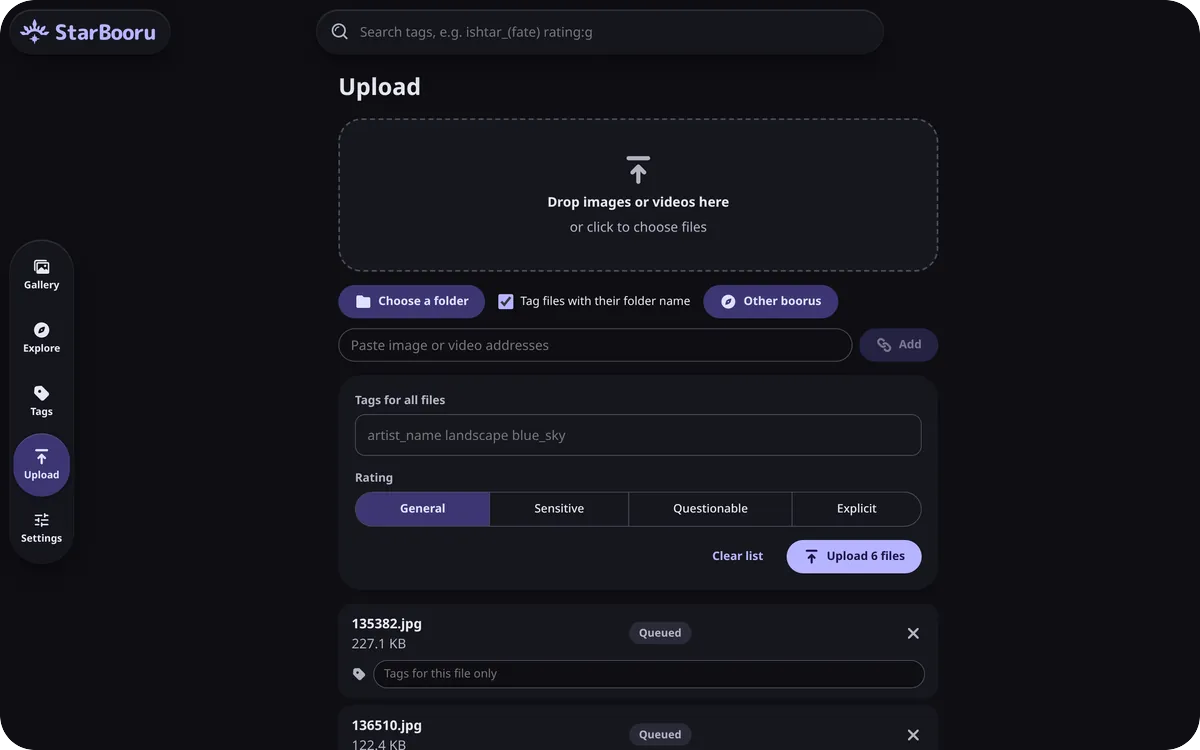
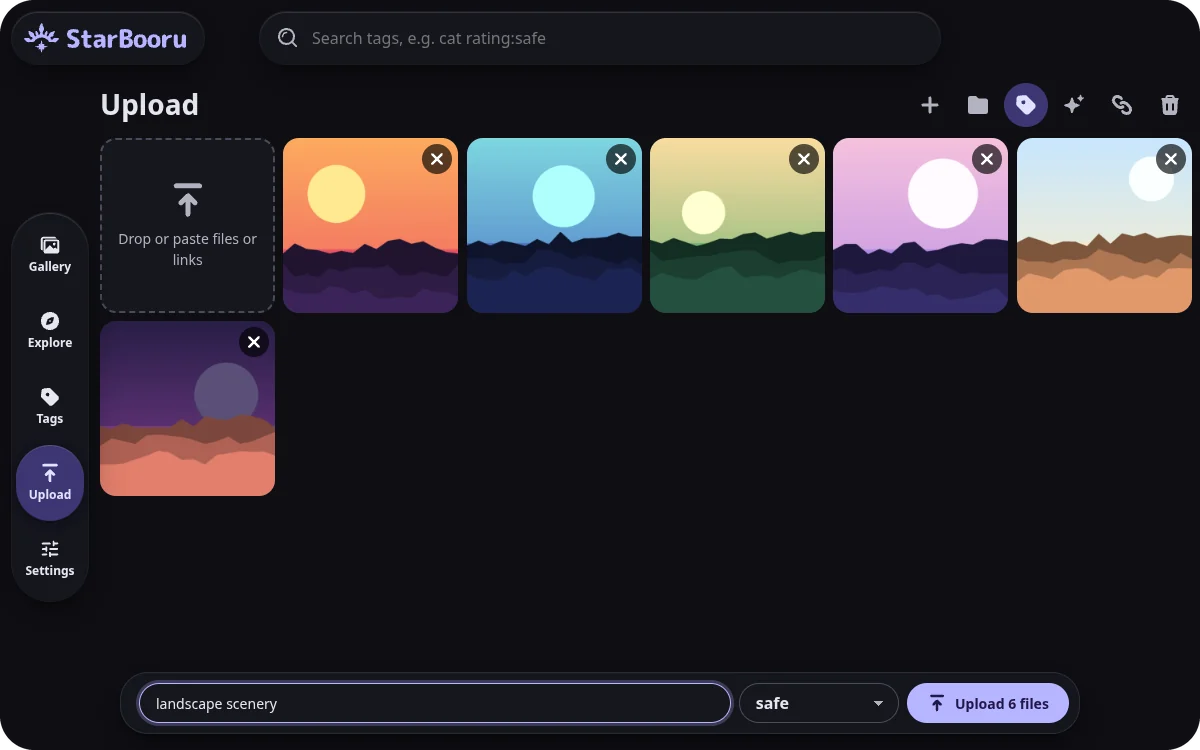
docs: The Upload page's veil, paste, popup and AI toggle, and a new showcase shot of it

diff --git a/docs/architecture.md b/docs/architecture.md
@@ -41,7 +41,7 @@ The desktop and Android apps are the same Dioxus code as the web app. Each one a
 | `storage.rs` | Format sniffing, content-addressed storage, thumbnails |
 | `uploads.rs` | Chunked uploads under way, in memory: each is a file of its final size in the scratch directory that chunks are written into at their place, with a flag per chunk. A read-write lock per upload keeps a chunk from changing a file while it is hashed, and serialises repeated finishes. Up to 8 per account, dropped after an hour idle. `routes/uploads.rs` has the handlers; finishing goes through `Storage::ingest_file`, which moves a video into place without reading it into memory, then the same `record_post` as `POST /posts`. A restart clears the scratch directory and with it any upload under way, which clients hear as `upload_gone`. |
 | `similar.rs` | A picture's colours for `color:`, and the duplicate finder fingerprints: a 64-bit difference hash (9×8 brightness grid) plus the average colour, and grouping by Hamming distance through a 4×16-bit multi-index, so it never compares every pair. Fine high-frequency patterns blur to flat at 9×8 and can match when their colours do. |
-| `ai.rs` | AI provider client: `chat(provider, prompt, image)` posts to an OpenAI-compatible `/chat/completions` (no proxies, 5 min timeout, 1 MiB answer cap, any address since the admin sets it). `AiSetup` routes each tool (tagging, translation, comics) to its API, the local models or nowhere. Tag suggestions from a post's thumbnail, translation of a post's OCR text (text only; `routes/ai.rs`), and background auto-tagging of uploads (two at a time). The key is never logged or returned; the answer parser is `starbooru_core::ai`. |
+| `ai.rs` | AI provider client: `chat(provider, prompt, image)` posts to an OpenAI-compatible `/chat/completions` (no proxies, 5 min timeout, 1 MiB answer cap, any address since the admin sets it). `AiSetup` routes each tool (tagging, translation, comics) to its API, the local models or nowhere. Tag suggestions from a post's thumbnail, translation of a post's OCR text (text only; `routes/ai.rs`), and background auto-tagging of uploads (two at a time), when the uploader asks for it (`autotag` on the upload or import) or, if they don't say, when the administrator's setting does. The key is never logged or returned; the answer parser is `starbooru_core::ai`. |
 | `local_ai/` | Local AI: `hardware.rs` reads the machine (`/proc`, `/sys/class/drm`, `nvidia-smi`, cgroup limits), `worker.rs` runs the worker process, `install.rs` downloads and verifies model files, `mod.rs` keeps it all working (see *Local AI*). |
 | `fetch.rs` | URL import download: http(s) only, public addresses only (checked for literal IPs, on every redirect and in a filtering DNS resolver), no proxies, streaming size cap, timeouts. `get_from` names the site a file belongs to in `Referer` (the site only, never a whole address), as Gelbooru's file servers answer nothing else. |
 | `routes/imports.rs` | Background URL imports: `import_jobs` rows claimed oldest first with `FOR UPDATE SKIP LOCKED` by two worker tasks, woken by a `Notify` when a batch is queued (or every minute), each run through the same path as `POST /posts/import`. At startup rows left `running` go back to `queued`; finished rows are deleted after 7 days. While a job downloads, `transfers.rs` keeps how far it has got in memory, by job (`Fetcher::get_from` reports each piece; `starbooru_core::Meter` turns the totals into a speed, a reading every half second, each counting for a third), and `GET /imports` puts it on the running jobs. An import that meets a busy site goes back to `queued` with `not_before` set (the site's `Retry-After`, or 15 s doubling each time, 10 minutes at most) and fails after six such waits; an idle worker sleeps until the first one is due. |
@@ -207,7 +207,8 @@ Packaging: the default build loads Microsoft's `libonnxruntime.so` from next to 
 | `locales/*.ftl` | One Fluent catalogue per language, compiled in with `include_str!`. `en.ftl` is the reference. |
 | `oidc.rs` | Provider sign-in. Web: the page goes to the provider and comes back to the `/oidc` route, with the handle kept in `sessionStorage`. Desktop and Android: the system browser opens the provider (`webbrowser`), and a one-off listener on `127.0.0.1` receives the result. |
 | `util.rs` (`media_files`) | Sorts what was chosen or dropped before it reaches the queue. A known extension passes unread; any other file that isn't hidden is judged by its first bytes (`SNIFF_BYTES`), read without loading the rest, against the server's own table (`starbooru_core::FORMATS`, `is_media`). Saved pictures are often named just `anime`. The file picker has no `accept` except on Android, where it opens the gallery: elsewhere it hides files with no extension, and the desktop's dialog also hides most types with no way to show them. |
-| `activity.rs` | Work that outlives a page, in global signals at the app's root. The upload queue holds files and addresses until *Upload*; then files go to a runner spawned on the root scope (one at a time, so leaving the page doesn't stop it, though closing the app does; the web app asks before closing with uploads left), each read a piece at a time and sent by `Client::upload_file` (`crates/client/src/chunked.rs`), which adjusts how many chunks are in flight and sends failed ones again, and addresses go to the server as `POST /imports` jobs. A poller (mounted by the shell) keeps the job list current: every 2 s while jobs run, else every minute. The Upload item in the navigation shows how many uploads and imports are still going, and a notice sums them up when they finish. An upload reports the bytes the server has taken after each chunk (`upload_file`'s `sent`), which the queue keeps with a speed from the same `Meter`; the job list is asked for every second while a download runs, and `TransferBar` (`pages/mod.rs`) draws either as a bar with its percentage and speed, or the bytes so far when the site doesn't say the size. |
+| `activity.rs` | Work that outlives a page, in global signals at the app's root. The upload queue holds files and addresses until *Upload*; then files go to a runner spawned on the root scope (one at a time, so leaving the page doesn't stop it, though closing the app does; the web app asks before closing with uploads left), each read a piece at a time and sent by `Client::upload_file` (`crates/client/src/chunked.rs`), which adjusts how many chunks are in flight and sends failed ones again, and addresses go to the server as `POST /imports` jobs. A poller (mounted by the shell) keeps the job list current: every 2 s while jobs run, else every minute. The Upload item in the navigation shows how many uploads and imports are still going, and a notice sums them up when they finish. An upload reports the bytes the server has taken after each chunk (`upload_file`'s `sent`), which the queue keeps with a speed from the same `Meter`; the job list is asked for every second while a download runs, and `TransferBar` (`pages/mod.rs`) draws either as a bar with its percentage and speed, or the bytes so far when the site doesn't say the size. The first item added once nothing is waiting starts a new batch and clears the last one's finished items. Opening an address asks the server once which booru post it is (`POST /remote/post`); a post found brings its tags, and is then imported as its file with its page as the source, so the server doesn't look it up again and tags taken off stay off. |
+| `paste.rs` | Ctrl+V on the Upload page. A script on the window catches pastes outside fields and popups. In the browser the clipboard's files are handed over as they are. A webview's have no path, so their bytes come across as base64 (64 MB at most each) and wait in a folder of the app's cache until uploaded, cleared after a day; files copied in a file manager arrive as `file://` lines and are read where they are. |
 | `cache.rs` | Desktop and Android media cache. Thumbnails and the viewer's images load from `/sbcache/<variant>/<sha256>.<ext>?<signature>`, which a webview asset handler answers from `<cache dir>/media/` (on Android, the app's cache dir), or downloads from the signed-in server's `/media/…` (no token; 64 MiB at most), keeps and answers. Files are content-addressed, so they never go stale, though signed URLs change every 6 hours. The exception is a thumbnail the server has made again at a new size: when `THUMBS` changes, the cached thumbnails go once, on the next start. Least recently used files go once the cache is over its limit (Settings › Storage on this device, 512 MB by default, off to 5 GB). The web app uses the browser cache. Key parsing and eviction are unit tested. |
 | `back.rs` | The Android back key. The activity (`vendor/wry`) calls `window.__sbBack()`, which closes what's on top of the page (menu, sheet, zoom, fullscreen) or goes back through the router. If it has no use for the key, the key closes the app. The router's history isn't the WebView's, so `history.pushState` can't do this: Chromium skips entries added without a tap. |
 | `download.rs` | *Download* buttons. The desktop app streams the signed URL into the Downloads folder (`Client::download_to`, through a `.part` file), never overwriting (`name (2).ext`), and reports the path in the shell's snackbar (`pages::notify`). The web app and Android use an `<a download>` link. File-name cleaning and the free-name rule are unit tested. |
@@ -215,6 +216,6 @@ Packaging: the default build loads Microsoft's `libonnxruntime.so` from next to 
 | `pace.rs` | Effects the device can afford. While Settings › Appearance › *Effects* is Automatic, a script times the frames of each stretch of scrolling and then eight frames of the page at rest, which say how fast the screen is at that moment. A stretch that lost more than a quarter of its frames is rough; three rough ones, less the smooth ones in between, set `Prefs.effects_reduced`, and timing stops. The root element then carries `data-effects="lite"`: the glass gets its tone without the blur, new thumbnails appear without an entrance and the viewer's glow isn't drawn. *Full* and *Reduced* skip the measuring, and choosing any of the three clears what was measured. The verdict and the rule that combines it with the setting are unit tested. |
 | `system.rs` | What the device says about itself. On Android, through JNI (`robius-android-env`): the app's files and cache dirs, which `directories` can't find there, and on Android 12+ the wallpaper's accent (`system_accent1_500`). It is read at start and whenever the app comes back to the front, then turned into an OKLCH hue that seeds the palette while *Accent colour › Wallpaper* is chosen (the default). The hue conversion and the choice are unit tested. On Linux desktop it also decides whether Dioxus's XWayland and no-DMA-BUF fallback is needed: only for NVIDIA's driver (`development.md` › *Run the clients*). |
 | `store.rs` | The session (server URL, token, user) and preferences (theme, accent hue, language, hand, battery saver, effects, originals, media cache limit) in global signals. They persist to `localStorage` on the web, to `<config dir>/StarBooru/state.json` on desktop and to the app's private files dir on Android. It also keeps the server's answers to `GET /info` and `GET /ai` for two minutes (`server_info`, `ai_status`), which the viewer and the upload page used to ask for on every visit; leaving the administration pages drops them. The app's root element carries `data-theme`, `data-hand` and `data-saver` for the CSS. |
-| `pages/` | `shell` (floating capsules, with nothing fixed edge to edge: the brand, the search with tag autocomplete, which asks once typing pauses for 120 ms and keeps the last 48 answers for a minute, always centred on the window, and the navigation, a slider of equal cells whose thumb moves without JS (`--n`, `--i`). It has five items at most (`docs/design-ui-ux`) and sits at the top right from 1530 px, at the side down to 761 px (icons alone when the window is under 500 px tall) and at the bottom on phones. A page with no item of its own is under one of the five: the booru browser is the other side of Explore, the two sides are links at the head of both pages (`explore::Sides`), and the Explore item goes back to the side last open. On the booru browser's pages the search box searches the chosen sites instead and completes from the first one's tags (`POST /remote/tags`, after a pause of 250 ms, with an answer cache of its own); a snackbar for notices that arrive after the click), `search_demo` (at the top of the gallery, the empty search box types out the cheat sheet with `ishtar_(fate)`, from a script that writes to the page directly; off under reduced motion and the battery saver), `login`, `gallery` (infinite scroll; `layout.rs` places the tiles as lengths of tiles and gaps, which CSS turns into pixels: staggered portrait stacks them in columns, staggered landscape fills rows, each row to its own height, and staggered everything packs them on half-column cells, levelling tiles by cropping them a little so neither rows nor columns line up; only those within a screen and a half of the screen are on the page, so pictures load and unload as they get near or leave and a removed picture's download is cancelled; the part on the page moves about a row at a time, and a tile already there isn't rendered again, as its post is shared with the list (`Rc`) and its handler is kept between renders; a tile shows its picture's main colour until the thumbnail has loaded; of a new page of results only the tiles that can be on the screen make an entrance; while the page scrolls, `html` carries `sb-scrolling` and the tile under the pointer isn't lit, and only video tiles listen for the pointer; it remembers the list and the spot per search, and going back to a spot loads the list's details as far as the user had got and works out the tile's place from the layout), `post` (viewer with zoom, pan, previous/next and fullscreen; votes, edit, delete/restore; the stage's size comes from the window alone, so nothing on or below it moves with the picture, and the picture's own thumbnail, painted blurred onto a canvas once, is the glow behind the page and all there is around it in fullscreen, the two canvases taking turns to fade so that the page never blurs anything per frame and a new glow waits for its picture to decode and for the last fade to end; the bar of actions and the related posts sit under the stage, the tags and details beside it; the related posts are asked for at once but go onto the page only when the viewer has come to rest (`motion::rested`: the flight or the turn is over, the file has loaded, the glow has changed and the page has stopped scrolling), as tiles in their pictures' colours, and their pictures then come two at a time, each decoded before it is painted; it fetches the neighbouring posts ahead, whose pictures also wait for that rest and decode one after another, sizes the picture from the post's width and height and shows the thumbnail until the image loads; the gallery hands over the clicked post, and `motion.rs` flies a copy of the picture between tile and stage, under the bars and the viewer's controls and panels, and for the browser's forward button as for a click, aiming anew each frame as the page may still move under it and leaving only once the image has decoded, while a copy of the gallery, of the tiles on the screen only, fades out as the controls and panels fade in, as WebKitGTK crashes in view transitions; on previous/next `motion.rs` copies the old picture before the post changes and starts both pictures together once the new one has decoded, 300 ms at most, and the neighbours are decoded ahead and kept; presses of previous/next add up in a queue of at most 6 steps, one taken each time the neighbours are known, so none is lost whatever the network does; while flipping through, one request for a post runs at a time, a picture has no entrance and shows only its thumbnail, and the file, the related posts, the panels and the prefetch wait for 250 ms of quiet), `editor` (the sheet that turns, flips and crops an image or trims a video; the crop maths is unit tested), `upload` (a grid of tiles under a head of icon buttons, which choose files or a folder, tag files by their folder, open the link field and clear the list: a tile to drop on, which is the whole page while nothing is chosen, a tile for each chosen file or link and a tile for each of the server's import jobs, with the progress on the tile; the tags and rating for all files and the Upload button are in the gallery's floating bar, and a file's own tags are behind its tile's tag button; in the web build a file's tile shows its picture from an object URL, for the first 120 tiles only, and CSS leaves tiles far from the screen undrawn (`content-visibility`), as a folder can queue thousands; `DropToUpload` is the sheet for files dropped on the gallery), `boorus` (the booru browser, under Explore: one search goes to every chosen site as a `POST /remote/search` each, a page of answers interleaves in the order of the site chips, and a file two sites have, told by its MD5, shows once while duplicates are hidden; the results are in the gallery's grid, laid out by `layout.rs` with the gallery's view menu, and stay with their paging and the place down the page in a global signal, so coming back from a post asks no site again; the address carries the search and the sites (`s`: a preset's name or `api|base`), with `&`, `%`, `+`, `#` and `,` written as `~` and their hex code, as the router doesn't escape them; picked posts go to the server as imports, by their file, or by their page when the site showed no file; searches are saved on the server with their sites, and so are accounts, never kept in the app; the sites added by address, the last selection and the duplicates switch are in `Prefs`), `booru_post` (one post there: its sample or video, its tags by category, what the site says about it, the same file's other sites, previous and next through the kept results; a post opened by its link, one that came without its file and a Gelbooru one without categories is asked for once with `POST /remote/post`), `trash` (recycle bin), `tags` (tag list; tag page with category, place in the tree, aliases and implications; the viewer's tag card grouped by category and section), `explore`, `settings`, `color_picker` (the wheel and hex field of the accent colour and the colour search), `help` (search cheat sheet), `legal` (Privacy Policy and Terms of Service, outside the signed-in shell), `share` (the sheet that makes a link, Settings › Shared links, and the public `/s/{token}` page outside the shell), `library_import` (Settings › Import from another booru: the form and the list of imports, which updates by itself) |
+| `pages/` | `shell` (floating capsules, with nothing fixed edge to edge: the brand, the search with tag autocomplete, which asks once typing pauses for 120 ms and keeps the last 48 answers for a minute, always centred on the window, and the navigation, a slider of equal cells whose thumb moves without JS (`--n`, `--i`). It has five items at most (`docs/design-ui-ux`) and sits at the top right from 1530 px, at the side down to 761 px (icons alone when the window is under 500 px tall) and at the bottom on phones. A page with no item of its own is under one of the five: the booru browser is the other side of Explore, the two sides are links at the head of both pages (`explore::Sides`), and the Explore item goes back to the side last open. On the booru browser's pages the search box searches the chosen sites instead and completes from the first one's tags (`POST /remote/tags`, after a pause of 250 ms, with an answer cache of its own); a snackbar for notices that arrive after the click), `search_demo` (at the top of the gallery, the empty search box types out the cheat sheet with `ishtar_(fate)`, from a script that writes to the page directly; off under reduced motion and the battery saver), `login`, `gallery` (infinite scroll; `layout.rs` places the tiles as lengths of tiles and gaps, which CSS turns into pixels: staggered portrait stacks them in columns, staggered landscape fills rows, each row to its own height, and staggered everything packs them on half-column cells, levelling tiles by cropping them a little so neither rows nor columns line up; only those within a screen and a half of the screen are on the page, so pictures load and unload as they get near or leave and a removed picture's download is cancelled; the part on the page moves about a row at a time, and a tile already there isn't rendered again, as its post is shared with the list (`Rc`) and its handler is kept between renders; a tile shows its picture's main colour until the thumbnail has loaded; of a new page of results only the tiles that can be on the screen make an entrance; while the page scrolls, `html` carries `sb-scrolling` and the tile under the pointer isn't lit, and only video tiles listen for the pointer; it remembers the list and the spot per search, and going back to a spot loads the list's details as far as the user had got and works out the tile's place from the layout), `post` (viewer with zoom, pan, previous/next and fullscreen; votes, edit, delete/restore; the stage's size comes from the window alone, so nothing on or below it moves with the picture, and the picture's own thumbnail, painted blurred onto a canvas once, is the glow behind the page and all there is around it in fullscreen, the two canvases taking turns to fade so that the page never blurs anything per frame and a new glow waits for its picture to decode and for the last fade to end; the bar of actions and the related posts sit under the stage, the tags and details beside it; the related posts are asked for at once but go onto the page only when the viewer has come to rest (`motion::rested`: the flight or the turn is over, the file has loaded, the glow has changed and the page has stopped scrolling), as tiles in their pictures' colours, and their pictures then come two at a time, each decoded before it is painted; it fetches the neighbouring posts ahead, whose pictures also wait for that rest and decode one after another, sizes the picture from the post's width and height and shows the thumbnail until the image loads; the gallery hands over the clicked post, and `motion.rs` flies a copy of the picture between tile and stage, under the bars and the viewer's controls and panels, and for the browser's forward button as for a click, aiming anew each frame as the page may still move under it and leaving only once the image has decoded, while a copy of the gallery, of the tiles on the screen only, fades out as the controls and panels fade in, as WebKitGTK crashes in view transitions; on previous/next `motion.rs` copies the old picture before the post changes and starts both pictures together once the new one has decoded, 300 ms at most, and the neighbours are decoded ahead and kept; presses of previous/next add up in a queue of at most 6 steps, one taken each time the neighbours are known, so none is lost whatever the network does; while flipping through, one request for a post runs at a time, a picture has no entrance and shows only its thumbnail, and the file, the related posts, the panels and the prefetch wait for 250 ms of quiet), `editor` (the sheet that turns, flips and crops an image or trims a video; the crop maths is unit tested), `upload` (a grid of tiles under a head of icon buttons, which choose files or a folder, tag files by their folder, open the link field and clear the list: a tile to drop on, which is the whole page while nothing is chosen, a tile for each chosen file or link and a tile for each of the server's import jobs, with the progress on the tile; the tags and rating for all files and the Upload button are in the gallery's floating bar, and pressing a file's or link's tile opens a popup with its picture and its own tags (`ItemSheet`), whose remove button is a cross that turns into a bin when pointed at; files dragged over the page grow a full-screen veil out of the drop box and shrink it back in; a sparkle toggle, shown when the server can tag, says whether the AI tags what is sent; in the web build a file's tile shows its picture from an object URL, for the first 120 tiles only, and CSS leaves tiles far from the screen undrawn (`content-visibility`), as a folder can queue thousands; `DropToUpload` is the sheet for files dropped on the gallery), `boorus` (the booru browser, under Explore: one search goes to every chosen site as a `POST /remote/search` each, a page of answers interleaves in the order of the site chips, and a file two sites have, told by its MD5, shows once while duplicates are hidden; the results are in the gallery's grid, laid out by `layout.rs` with the gallery's view menu, and stay with their paging and the place down the page in a global signal, so coming back from a post asks no site again; the address carries the search and the sites (`s`: a preset's name or `api|base`), with `&`, `%`, `+`, `#` and `,` written as `~` and their hex code, as the router doesn't escape them; picked posts go to the server as imports, by their file, or by their page when the site showed no file; searches are saved on the server with their sites, and so are accounts, never kept in the app; the sites added by address, the last selection and the duplicates switch are in `Prefs`), `booru_post` (one post there: its sample or video, its tags by category, what the site says about it, the same file's other sites, previous and next through the kept results; a post opened by its link, one that came without its file and a Gelbooru one without categories is asked for once with `POST /remote/post`), `trash` (recycle bin), `tags` (tag list; tag page with category, place in the tree, aliases and implications; the viewer's tag card grouped by category and section), `explore`, `settings`, `color_picker` (the wheel and hex field of the accent colour and the colour search), `help` (search cheat sheet), `legal` (Privacy Policy and Terms of Service, outside the signed-in shell), `share` (the sheet that makes a link, Settings › Shared links, and the public `/s/{token}` page outside the shell), `library_import` (Settings › Import from another booru: the form and the list of imports, which updates by itself) |
 | `index.html` | The web page `dx` builds on, in place of its own. It holds the loading screen: a plain field in the theme's colour with a ring that shows after 0.4 s, styled in the page itself so it paints before anything has loaded, in the theme and hue kept in `localStorage`. `dx` writes the stylesheet's link into it (`main.css` is declared with `with_static_head`), so the app is never on the page without its styles, and the web build adds no link of its own. `main.css` takes the loading screen away once `#main` has something in it. The desktop and Android apps don't use this page. |
 | `assets/main.css` | The design system. Material-You-style colour roles come from one OKLCH seed hue (`--seed-hue`), with light, dark and system themes. Glass applies to the bars and the viewer's floating controls. Animations use spring easing and are disabled under reduced motion. |

diff --git a/docs/roadmap.md b/docs/roadmap.md
@@ -45,9 +45,9 @@ The checklist's *better tagging system* request, built in five phases. Each phas
 | related media suggestion | ✅ | The viewer shows up to 12 related posts under the picture, as one row to run a thumb along on a phone. They share the post's rarer tags (each shared tag counts by how rare it is) or look like it (a difference hash within a few bits), so look-alikes show even without tags. Found from the 8 rarest tags and a 4-chunk hash index, never a scan. They come onto the page once the picture above has arrived, each tile in its picture's colour first, and their pictures two at a time. Image embeddings (M5) could later add posts that look alike only in content. |
 | simple image editor / simple video editor | ✅ | The post viewer's editor fills the window, with its tools beside the picture on wide screens and under it on tall ones. For an image: a crop box with eight handles that works by touch, proportions (free, original, 1:1, 3:4, 2:3, 4:5, 9:16, either way round, or custom), straightening up to ±45°, quarter turns and flips, undo and redo (Ctrl+Z, Ctrl+Shift+Z), Ctrl+S to save. By default the original goes to the recycle bin and a notice offers to undo the save for a few seconds; the arrow beside Save can keep it instead, and that choice is remembered. For a video it trims (type times or take the playing position). The result is saved as a new post with the same tags; the original can go to the recycle bin. Video trims need ffmpeg: a lossless copy when the keyframes allow it, a re-encode otherwise. |
 | video preview | ✅ | Thumbnails for video, AVIF and JPEG XL through ffmpeg (bundled in the image), length badge, muted preview on mouse hover, plays in the viewer. Older posts get thumbnails at the next start. |
-| media importer / upload tab | ✅ | Multi-file drag and drop; folder import (only images and videos, recognised by their content when the name doesn't say, optionally tagged with the folder name); import from URLs (downloaded by the server as background jobs, which finish even with the app closed; public addresses only by default); shared tags and rating plus tags per file. Uploads and imports carry on while you use other pages, with a count on the Upload tab. Anything over 2 MiB goes in chunks, up to 8 at once as the connection allows, and a chunk that fails is sent again, so proxy limits on request size stop mattering. Not done: picking up an upload after the app closes. A pasted link to a post on a booru (Danbooru, Gelbooru and its forks, Moebooru, e621) imports that post's original file with the site's tags, rating and source; Gelbooru, whose API wants a key, is read from the post's page. Any other page gives the picture it names for link previews. Uploads and imports show a progress bar with the percentage and the speed. The page is a grid like the gallery's: a tile for each file or link, with its picture in the web app, and the tags, rating and Upload button in a floating bar. |
+| media importer / upload tab | ✅ | Multi-file drag and drop; folder import (only images and videos, recognised by their content when the name doesn't say, optionally tagged with the folder name); import from URLs (downloaded by the server as background jobs, which finish even with the app closed; public addresses only by default); shared tags and rating plus tags per file. Uploads and imports carry on while you use other pages, with a count on the Upload tab. Anything over 2 MiB goes in chunks, up to 8 at once as the connection allows, and a chunk that fails is sent again, so proxy limits on request size stop mattering. Not done: picking up an upload after the app closes. A pasted link to a post on a booru (Danbooru, Gelbooru and its forks, Moebooru, e621) imports that post's original file with the site's tags, rating and source; Gelbooru, whose API wants a key, is read from the post's page. Any other page gives the picture it names for link previews. Uploads and imports show a progress bar with the percentage and the speed. The page is a grid like the gallery's: a tile for each file or link, with its picture in the web app, and the tags, rating and Upload button in a floating bar. Files dragged over the page grow the gallery's full-screen veil out of the drop box, and it shrinks back into the box after. Ctrl+V pastes pictures, files and links, on this page only and never into a field. A new batch clears away the last one's finished tiles, and *Clear* sends the tiles off one after another. Pressing a tile opens a popup with its picture and a big tag box; a link to a booru post comes with that post's tags to edit. The popup's back button is an arrow and its remove button turns into a bin on hover. A sparkle toggle says whether the AI tags what is sent; it shows only when the server can tag, and starts from the server's setting. Checked in Chromium in light and dark, at desktop and phone width; paste not checked in the desktop or Android app. |
 | saved search | ✅ | Star a search in the gallery header to save it, or tap it again to forget it. Saved searches show as chips on the unfiltered gallery. Per user, at most 200. |
-| automatic tagging, AI features, OCR | 🟡 | **Automatic tags:** every new post gets Danbooru's meta tags from the file (`lowres`, `highres`, `absurdres`, `wide_image`, `tall_image`, `animated`, `video`, `sound`, `long_video`) plus resolution and orientation (`hd`, `full_hd`, `4k`, `8k`, `horizontal_image`, `vertical_image`, `square_image`), once per post so a removed tag stays removed; older posts are tagged at the next start; Administration › Server or `STARBOORU_AUTO_TAGS` turns it off. **AI:** in Administration › Server › AI each tool (tagging, translation, comics) is off, local or an OpenAI-compatible API, with its own address, model and key. Local tools run models made for the job (ten taggers from WD, ML-Danbooru, JoyTag and Danbooru Tagger, Opus-MT, M2M-100, MADLAD-400, TranslateGemma, six comic sets of a comic-text detector, Manga OCR and a translator) in a worker process: install, uninstall or pick any of them from the panel, or use three speeds measured on the machine: Fast (instant, greyed out when nothing is), Balanced (best within 5 s, else the quickest) and Accurate (the best high-accuracy model within 30 s, greyed out when none manages); the server downloads, recovers and retries by itself. *Suggest tags* in the tag editor shows chips to add (new tags marked), with a suggested rating when the model gives one; optionally new uploads are tagged in the background. **OCR:** tesseract on the server reads the text in still images after upload (and older ones at start); the viewer shows it with Copy and, with a provider, *Translate* into the app's language; `text:word` / `text:"two words"` search it. **Comics and manga:** the viewer's translate button finds and translates the page's text and draws each balloon's translation over it (hover for the original), kept per language; new uploads with text can be translated automatically into a set language; the image has Japanese OCR (horizontal and vertical). Not done: embeddings (pgvector), upscaling, background removal. |
+| automatic tagging, AI features, OCR | 🟡 | **Automatic tags:** every new post gets Danbooru's meta tags from the file (`lowres`, `highres`, `absurdres`, `wide_image`, `tall_image`, `animated`, `video`, `sound`, `long_video`) plus resolution and orientation (`hd`, `full_hd`, `4k`, `8k`, `horizontal_image`, `vertical_image`, `square_image`), once per post so a removed tag stays removed; older posts are tagged at the next start; Administration › Server or `STARBOORU_AUTO_TAGS` turns it off. **AI:** in Administration › Server › AI each tool (tagging, translation, comics) is off, local or an OpenAI-compatible API, with its own address, model and key. Local tools run models made for the job (ten taggers from WD, ML-Danbooru, JoyTag and Danbooru Tagger, Opus-MT, M2M-100, MADLAD-400, TranslateGemma, six comic sets of a comic-text detector, Manga OCR and a translator) in a worker process: install, uninstall or pick any of them from the panel, or use three speeds measured on the machine: Fast (instant, greyed out when nothing is), Balanced (best within 5 s, else the quickest) and Accurate (the best high-accuracy model within 30 s, greyed out when none manages); the server downloads, recovers and retries by itself. *Suggest tags* in the tag editor shows chips to add (new tags marked), with a suggested rating when the model gives one; optionally new uploads are tagged in the background, which the uploader can turn on or off per upload (`autotag`; the Upload page's sparkle toggle). **OCR:** tesseract on the server reads the text in still images after upload (and older ones at start); the viewer shows it with Copy and, with a provider, *Translate* into the app's language; `text:word` / `text:"two words"` search it. **Comics and manga:** the viewer's translate button finds and translates the page's text and draws each balloon's translation over it (hover for the original), kept per language; new uploads with text can be translated automatically into a set language; the image has Japanese OCR (horizontal and vertical). Not done: embeddings (pgvector), upscaling, background removal. |
 | explore tab with trending | ✅ | An Explore tab: trending posts (net upvotes in the last day, week, month or year), popular tags on recent posts, *On this day* from earlier years, and shuffleable random picks. A search narrows it all. |
 | login system | ✅ | Accounts, Argon2id, revocable tokens, first user becomes admin. Failed sign-ins are limited per account and address (429 with `Retry-After`). Optional sign-in with an OpenID Connect provider (Authentik, Keycloak, Google…): PKCE, accounts made on first sign-in when registration is open, and provider accounts linked and unlinked in Settings. The desktop app gets the answer through the system browser and a loopback listener. |
 | password strength feedback | ✅ | While someone types a new password, the field turns from red (very weak) through orange (fair) to green (strong) in one smooth blend, not in steps. Trying to create an account with a weak password gives a short message saying so. Screen readers hear the strength in words. Settings › Password shows the same colours. Strength is estimated in `starbooru-core`, so the app and the server agree. |

diff --git a/docs/readme/README.ru.md b/docs/readme/README.ru.md
@@ -56,7 +56,7 @@
 
 ## Возможности
 
-- **Загрузка как удобно:** перетаскивание, целые папки или веб-адреса. Ссылка на публикацию на booru или картинка, перетащенная из другой вкладки, приносит оригинал вместе с тегами. Файлы распознаются по содержимому, поэтому пройдёт и изображение без расширения.
+- **Загрузка как удобно:** перетаскивание, вставка из буфера обмена, целые папки или веб-адреса. Ссылка на публикацию на booru или картинка, перетащенная из другой вкладки, приносит оригинал вместе с тегами. Файлы распознаются по содержимому, поэтому пройдёт и изображение без расширения.
 - **Перенос библиотеки:** импорт из szurubooru, Shimmie2, Danbooru, Stash, Blombooru, Monbooru и LANBooru с тегами, рейтингами и источниками.
 - **Просмотр других booru:** поиск по Danbooru, Gelbooru, Moebooru и e621 прямо в StarBooru, по нескольким сайтам сразу, с подсказками тегов каждого сайта. Сохраняйте поиски, к которым возвращаетесь, и публикации, которые хотите оставить.
 - **Теги со структурой:** категории, дерево родительских и дочерних тегов, псевдонимы, импликации, теги для каждого человека на изображении и исправление опечаток.

diff --git a/docs/readme/README.ja.md b/docs/readme/README.ja.md
@@ -56,7 +56,7 @@
 
 ## 機能
 
-- **好きな方法でアップロード：** ドラッグ＆ドロップ、フォルダーごと、または URL から。booru の投稿へのリンクや、別のタブからドラッグした画像は、元のファイルとタグごと取り込めます。ファイルは中身で判別するので、拡張子のない画像も取り込めます。
+- **好きな方法でアップロード：** ドラッグ＆ドロップ、クリップボードからの貼り付け、フォルダーごと、または URL から。booru の投稿へのリンクや、別のタブからドラッグした画像は、元のファイルとタグごと取り込めます。ファイルは中身で判別するので、拡張子のない画像も取り込めます。
 - **ライブラリの移行：** szurubooru、Shimmie2、Danbooru、Stash、Blombooru、Monbooru、LANBooru からタグ、レーティング、ソースごとインポート。
 - **ほかの booru を閲覧：** StarBooru の中から Danbooru、Gelbooru、Moebooru、e621 を検索できます。複数のサイトを同時に検索でき、各サイトのタグ補完も使えます。よく使う検索を保存し、残したい投稿を自分のコレクションに保存できます。
 - **構造を持ったタグ：** カテゴリ、親子のツリー、エイリアス、含意タグ、画像内の人物ごとのタグ、タイプミスの修正。

diff --git a/docs/readme/README.it.md b/docs/readme/README.it.md
@@ -56,7 +56,7 @@
 
 ## Funzionalità
 
-- **Carica come preferisci:** trascina i file, scegli intere cartelle o incolla indirizzi web. Il link a un post di un booru, o un'immagine trascinata da un'altra scheda, porta l'originale con i suoi tag. I file vengono riconosciuti dal contenuto, quindi entra anche un'immagine senza estensione.
+- **Carica come preferisci:** trascina i file, incollali dagli appunti con Ctrl+V, scegli intere cartelle o incolla indirizzi web. Il link a un post di un booru, o un'immagine trascinata da un'altra scheda, porta l'originale con i suoi tag. I file vengono riconosciuti dal contenuto, quindi entra anche un'immagine senza estensione.
 - **Porta la tua libreria:** importa da szurubooru, Shimmie2, Danbooru, Stash, Blombooru, Monbooru e LANBooru con tag, rating e fonti.
 - **Sfoglia altri booru:** cerca su Danbooru, Gelbooru, Moebooru ed e621 da dentro StarBooru, anche su più siti insieme, con i suggerimenti di tag di ciascuno. Salva le ricerche a cui torni e i post che vuoi tenere.
 - **Tag con una struttura:** categorie, albero padre e figlio, alias, implicazioni, tag per ogni persona in un'immagine e correzione dei refusi.

diff --git a/README.md b/README.md
@@ -56,7 +56,7 @@
 
 ## Features
 
-- **Upload your way:** drag and drop, whole folders or web addresses. A link to a post on a booru, or a picture dragged out of another tab, brings the original with its tags. Files are recognised by their content, so a picture with no extension still gets in.
+- **Upload your way:** drag and drop, paste from the clipboard, whole folders or web addresses. A link to a post on a booru, or a picture dragged out of another tab, brings the original with its tags. Files are recognised by their content, so a picture with no extension still gets in.
 - **Bring your library:** import from szurubooru, Shimmie2, Danbooru, Stash, Blombooru, Monbooru and LANBooru with tags, ratings and sources.
 - **Browse other boorus:** search Danbooru, Gelbooru, Moebooru and e621 from inside StarBooru, several at once, with each site's tag suggestions. Save the searches you come back to and the posts you want to keep.
 - **Tags with structure:** categories, a parent and child tree, aliases, implications, tags per person in a picture, and typo correction.

diff --git a/docs/readme/README.zh-CN.md b/docs/readme/README.zh-CN.md
@@ -56,7 +56,7 @@
 
 ## 功能
 
-- **多种上传方式：** 拖放文件、选择整个文件夹或粘贴网址。粘贴 booru 帖子的链接，或从其他标签页拖入图片，即可取得原图及其标签。文件按内容识别，没有扩展名的图片也能上传。
+- **多种上传方式：** 拖放文件、从剪贴板粘贴、选择整个文件夹或粘贴网址。粘贴 booru 帖子的链接，或从其他标签页拖入图片，即可取得原图及其标签。文件按内容识别，没有扩展名的图片也能上传。
 - **迁移你的图库：** 从 szurubooru、Shimmie2、Danbooru、Stash、Blombooru、Monbooru 和 LANBooru 导入，并保留标签、分级和来源。
 - **浏览其他 booru：** 在 StarBooru 内搜索 Danbooru、Gelbooru、Moebooru 和 e621，可同时搜索多个站点，并使用各站点的标签补全。保存常用的搜索，把想留下的帖子存入图库。
 - **有结构的标签：** 分类、父子标签树、别名、隐含标签、按图中人物分别标记，以及拼写纠正。
